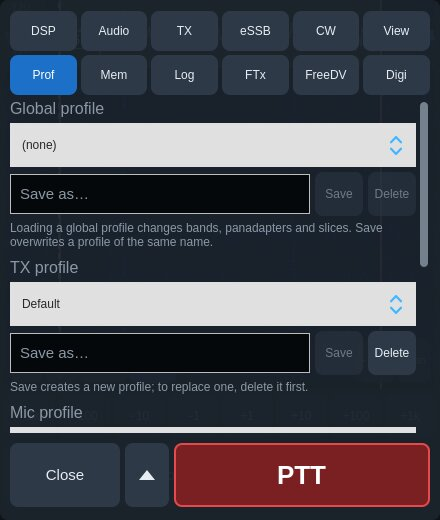
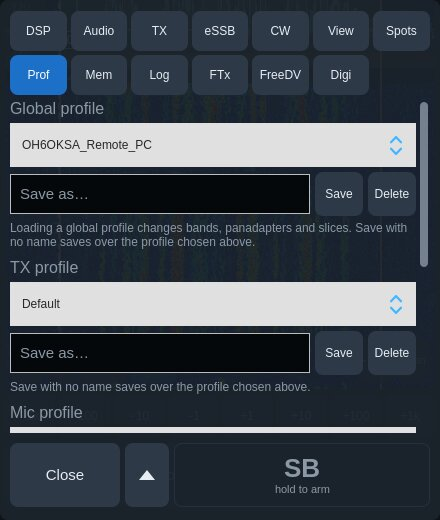
mobile: 162 Save with no name goes over the profile or App setup chosen above, after a question that names it (Larry Averbeck W9FLA)
Saving a small change into the profile in use needed its whole name
typed again, and for a TX or Mic profile the app refused a name that
exists ("delete it first"), after upstream's #2712.

The radio can save over: "profile transmit create" / "profile mic
create" on a name that exists writes the settings in use over that
profile and makes it current (tried on the FLEX-6600M, SmartSDR 4.3.16,
the radio's Auto Save on and off). So:
- Save with the name field empty takes the name chosen in the list above;
- a name that exists, typed or taken from the list, asks first: Save over
  "NAME"? with the kind of profile; No sends nothing;
- App setups' Save the same way through their own Replace question;
- saveProfile no longer refuses an existing TX or Mic name.
The Prof tab's hints say it. Nothing moves on the tab.

Tested on the FLEX with scratch profiles (the user's own left alone): a
TX profile with tune power 11 saved over after Yes, loaded away and back:
11; 12, Save, No: nothing sent, 11 came back. A Mic profile the same way
with the mic level (50 / 49). Global: the question names the profile in
use, No sends nothing (Yes not pressed: it would have written over the
user's profile; the command is the one Save sent before). An App setup
saved over after Yes, then deleted. The scratch profiles deleted, Default
in use, tune power 10, mic level 50, Auto Save on. In the build of the
whole next tree: the question opened from the Prof tab and No closed it.
[…]

diff --git a/mobile/qml/ProfileControls.qml b/mobile/qml/ProfileControls.qml
@@ -39,6 +39,7 @@ ColumnLayout {
             Layout.fillWidth: true
             TextField {
                 id: nameField
+                objectName: "profileName_" + section.type
                 Accessible.name: qsTr("New %1 profile name").arg(section.title)
                 Layout.fillWidth: true
                 placeholderText: qsTr("Save as…")
@@ -49,11 +50,26 @@ ColumnLayout {
             }
             AppButton {
                 id: saveButton
+                objectName: "profileSave_" + section.type
                 text: qsTr("Save")
-                enabled: nameField.text.trim().length > 0
+                // A typed name saves under it. With the field empty Save goes
+                // over the profile chosen above, after a question that names
+                // it (roadmap 162, Larry Averbeck W9FLA: a small change saved
+                // again needed the whole name typed again).
+                enabled: nameField.text.trim().length > 0 || picker.currentIndex >= 0
                 focusPolicy: Qt.NoFocus
                 onClicked: {
-                    Engine.saveProfile(section.type, nameField.text.trim())
+                    const typed = nameField.text.trim()
+                    const name = typed.length > 0 ? typed : picker.currentText
+                    if (section.names.indexOf(name) >= 0) {
+                        confirmSaveOver.type = section.type
+                        confirmSaveOver.kind = section.title
+                        confirmSaveOver.name = name
+                        confirmSaveOver.field = nameField
+                        confirmSaveOver.open()
+                        return
+                    }
+                    Engine.saveProfile(section.type, name)
                     nameField.text = ""
                 }
             }
@@ -83,14 +99,14 @@ ColumnLayout {
         title: qsTr("Global profile")
         names: Engine.globalProfiles
         active: Engine.activeGlobalProfile
-        hint: qsTr("Loading a global profile changes bands, panadapters and slices. Save overwrites a profile of the same name.")
+        hint: qsTr("Loading a global profile changes bands, panadapters and slices. Save with no name saves over the profile chosen above.")
     }
     ProfileSection {
         type: "transmit"
         title: qsTr("TX profile")
         names: Engine.txProfiles
         active: Engine.activeTxProfile
-        hint: qsTr("Save creates a new profile; to replace one, delete it first.")
+        hint: qsTr("Save with no name saves over the profile chosen above.")
     }
     ProfileSection {
         type: "mic"
@@ -155,10 +171,12 @@ ColumnLayout {
                 id: setupSave
                 objectName: "appSetupSave"
                 text: qsTr("Save")
-                enabled: setupName.text.trim().length > 0
+                // With no name: over the setup chosen above (roadmap 162).
+                enabled: setupName.text.trim().length > 0 || setupPicker.currentIndex >= 0
                 focusPolicy: Qt.NoFocus
                 onClicked: {
-                    const name = setupName.text.trim()
+                    const typed = setupName.text.trim()
+                    const name = typed.length > 0 ? typed : setupPicker.currentText
                     if (Engine.appSetups.indexOf(name) >= 0) {
                         confirmReplace.name = name
                         confirmReplace.open()
@@ -280,6 +298,35 @@ ColumnLayout {
         onAccepted: {
             setups.show(Engine.saveAppSetup(name), qsTr("Saved “%1”.").arg(name))
             setupName.text = ""
+        }
+    }
+
+    // Save over a profile that exists: the three kinds of the radio's
+    // profiles (roadmap 162). The radio writes the settings in use over it.
+    Dialog {
+        id: confirmSaveOver
+        objectName: "confirmSaveOver"
+        property string type
+        property string kind
+        property string name
+        property var field: null
+        parent: Overlay.overlay
+        anchors.centerIn: parent
+        width: Math.min(parent ? parent.width - 2 * Theme.spacing : 400, 420)
+        modal: true
+        title: qsTr("Save over “%1”?").arg(name)
+        standardButtons: Dialog.Yes | Dialog.No
+        contentItem: ColumnLayout {
+            Label {
+                Layout.fillWidth: true
+                text: qsTr("%1: the settings now in use replace the ones saved in it.").arg(confirmSaveOver.kind)
+                wrapMode: Text.Wrap
+                color: Theme.text
+            }
+        }
+        onAccepted: {
+            Engine.saveProfile(type, name)
+            if (field) field.text = ""
         }
     }
 

diff --git a/mobile/src/MobileEngine.cpp b/mobile/src/MobileEngine.cpp
@@ -7509,12 +7509,11 @@ void MobileEngine::saveProfile(const QString& type, const QString& name)
     if (type == QLatin1String("global")) {
         rm.sendCommand(QStringLiteral("profile global save ") + quotedProfileName(name));
     } else if (type == QLatin1String("transmit") || type == QLatin1String("mic")) {
-        const QStringList& existing = type == QLatin1String("mic") ? micProfiles() : txProfiles();
-        if (existing.contains(name.trimmed())) {
-            setLastError(tr("A %1 profile named “%2” exists. The radio cannot overwrite it: "
-                            "delete it first, then save again.").arg(type, name.trimmed()));
-            return;
-        }
+        // "create" on a name that exists writes the settings in use over
+        // that profile and makes it the current one (tried on a FLEX-6600M
+        // with SmartSDR 4.3.16, the radio's Auto Save on and off; roadmap
+        // 162): the app refused it with "delete it first", after upstream's
+        // #2712. The profile tab asks before a save over a name in use.
         rm.sendCommand(QStringLiteral("profile %1 create ").arg(type) + quotedProfileName(name));
     }
 }

diff --git a/mobile/ROADMAP.md b/mobile/ROADMAP.md
@@ -349,7 +349,7 @@ smallest number to the largest ("aina pienimmästä isoimpaan numeroon").
 159. **Radio:** FLEX firmware updates from OksaSDR (the user, 2026-11-23: "olisiko ohjelmisto päivitykset mahdollista tehdä jatkossa OksaSDR ... ettei tarttisi montaa sovellusta tai käyttistä, nythän olen aetherillä päivittänyt"). *Pre-analysis*: the shared core has it (FirmwareStager: FlexRadio's published SmartSDR version, the installer downloaded and MD5-checked, the .ssdr extracted from the MSI / Inno Setup in C++; FirmwareUploader: the file-upload socket), not yet in the mobile build. Radio Setup › Radio: the radio's version, the latest, Update; on the radio's network or a VPN only (not SmartLink), a download of hundreds of MB, the device kept awake on power until the radio is back. Test: a real update of the user's FLEX when FlexRadio publishes one, with the user's yes. Size: medium. Not chosen for a build.
 160. **Layout:** One proportional interface at every size (the user, 2026-11-23 evening, reviewing the Linux and iMac windows: "koko käyttöliittymä olisi noin suhteessa samannäköinen, vaikka näytön koot muuttuu, jolloin tuntuma säilyisi ihan sama millä laitteella käytät ... kun venyttää ikkunaa, niin kaikki skaalautuu suhteessa siihen ikkunan kokoon"; low phone landscapes with bar meters, perhaps one per side, instead of needles, the user free to add more, "mutta se olisi aina se optimaalisin näyttökoko"). *Pre-analysis*: today Theme.scale follows the short side only (0.85 on a phone, 1.0 on an 11" iPad, capped at 1.3), so on a 1920 or 2560 window text, touch targets and row heights stay near the iPad's while the rows stretch across the width (− and + 210 to 310 px wide); meters fall back to bars only under tightHeight (a window under 400 high). The idea: the 11" iPad in landscape (where the app began) as the reference, and every size keeping its proportions: a scale from both sides of the window without the 1.3 cap, each row's parts keeping their share of it (PTT about a third of its row, the small buttons about a twelfth), and on low screens the compact forms by default (bar meters, one per side), with the user's own choices kept. Review: every size beside the reference at the same scale, by proportion, not pixels. Size: large (Theme and every page; Classic changes at most sizes, approved by pictures first). *Measured 2026-11-24 on build 212 (the FLEX, receive only; the display = spectrum + waterfall, controls hidden, needle meters; the test tool's new `shot-plan: display` line)*: the display's height and its share of the window's height: 393 x 852 447 (52 %), 852 x 393 187 (48 %), 956 x 440 163 (37 %), 698 x 712 253 (36 %), 751 x 659 206 (31 %), 744 x 1133 668 (59 %), 1133 x 744 280 (38 %), 834 x 1194 713 (60 %), 1194 x 834 354 (42 %), 1024 x 1366 824 (60 %), 1366 x 1024 454 (44 %), 1470 x 890 372 (42 %), 1728 x 1050 473 (45 %), 1920 x 1015 452 (45 %), 2560 x 1375 739 (54 %). Findings: (1) proportional scaling of a 2560 x 1375 window (scale 1.65 instead of 1.30: the 11" iPad's look, rendered as 1552 x 834) makes text and buttons 27 % larger but takes the display from 54 % to 40 % of the height (739 to 544 px): the user's two principles pull apart on big windows, his to decide; up to MacBook sizes today's scale is already within 3-8 % of proportional. (2) The fixed limits jump: 956 x 440 gets less display (163) than 852 x 393 (187), being just over tightHeight's 400 (needles and the band row stay). (3) One bar meter a side gives the display 52-59 px more than needles on the tablet page (751 x 659: 206 to 258; 698 x 712: 253 to 306; 1133 x 744: 280 to 334; 1194 x 834: 354 to 413), two bars a side almost nothing (+7). (4) Pinned controls upright leave the display 188 px on an iPad mini and 206 px on an 11" (16-17 % of the window). (5) The Macros panel covers the whole display at 393 x 852, 852 x 393, 698 x 712 and 751 x 659; the Log drawer upright covers the waterfall (140). Proposed to the user (the page https://claude.ai/artifact/ApTmJ5t56HqRCdcNsG9YJm, pictures and tables; nothing coded): A the scale from both sides above the reference with no cap, and View › Size (Auto / Smaller / Larger), nothing changed below the reference (a finger does not scale: 44 pt); B a floor for the display (40 % of the height) reached by one order of giving way (needles to one bar a side, then the band row, then the step row; PTT never), in place of the 400 / 500 limits, with Meters: Auto / Needles / Bars and the user's own choice always winning; C panels that never cover the whole waterfall (Macros as a one-row strip on small screens, the upright drawer only as high as its tab needs, pinned controls upright shortened to the floor), sketches after the user picks the direction; D the keyboard as room taken away, shared out by B's order. Order B, A, C, D, each its own commit behind a setting at first. Waiting for the user's decisions. Not chosen for a build.
 161. **Usability:** Big buttons: the way out found (*in build 212 / Android beta 118*) (Kent Winrich, OksaSDR Users 2026-11-24, Android beta 117: "I seem to be stuck on the big buttons. When I go back to the menu it still says big buttons there and that doesn't do anything. I also try hitting exit and that doesn't do anything"; Jeff Schmeichel the same night: "It took me a bit to figure it out the first time as well"). *Pre-analysis*: Exit leaves on a hold of half the press-and-hold time, on purpose (a bump in the car must not close the view); a tap shows *hold to exit* beside it for 2.5 s in the dim text colour at 14 px, which neither saw; the ⋯ menu's *Big buttons* item and View › *Big buttons* set the mode on again, so they did nothing while it was on. Fix: both read *Exit Big buttons* while the mode is on and leave it; the hint in amber (not bold: the wider text pushed the mode button off a 393-wide phone's row). The hold stays. Tests in the render tool on the FLEX at phone and tablet sizes: the menu item and the View button in and out, Exit by tap (hint) and by hold. Size: small.
-162. **Radio:** Save over the profile in use without typing its name **In short:** Saving a profile again under its own name without typing the name: *Save* with the name field empty saves over the profile or App setup chosen above, after a question that names it. Drafted and tested on the FLEX, pictures shown 2026-11-25; nothing moves on the Prof tab. **From you:** yes or no to the draft. **Details:** (Larry Averbeck W9FLA, OksaSDR Users 2026-11-24: "Often, I find a small change that I would like to intentionally save using the same Profile name. (I do not like the Flex Auto Save capability.) As currently implemented, I have to retype that Profile name in order to re-save it. Would you consider adding a Re-Save option for the three Profiles and for the App setups"). *Pre-analysis* (ProfileControls.qml, MobileEngine::saveProfile): Save is enabled only with a typed name. A Global profile of that name is overwritten (`profile global save`); a TX or Mic profile is refused when the name exists ("delete it first"), as the app only sends `profile transmit|mic create` and upstream holds that the radio cannot overwrite those (its #2712; its own reference lists a `save` verb beside create: to try on the FLEX with a scratch profile whether `profile transmit save "name"` and `profile mic save "name"` replace, else delete and create in turn as the re-save, the profile made active again); an App setup of that name asks *Replace the setup?*. *Tested on the FLEX-6600M (SmartSDR 4.3.16), 2026-11-24, with a scratch profile ZZ_OKSA_TEST* (the user: "162 voi tallentaa päälle testeissä"; the app's own client through the render tool's new `radiocmd`; the tune power 10 → 11 and the mic level 50 → 49 as the marks, both put back): `profile transmit save "name"` is no command (50000016), but `profile transmit create "name"` and `profile mic create "name"` on a name that exists answer 0 and write the current settings over that profile, with the radio's Auto Save on and with it off (loaded back, the scratch profile held 11 and 49 while Default kept 10 and 50), and make it the current one. So the radio can save over a TX or a Mic profile, upstream's #2712 and our "delete it first" are wrong, and the re-save is the same one command for all three kinds (`profile global save`, `profile transmit create`, `profile mic create`). Seen on the way: `profile mic load` answers 50000078 and loads all the same; a plain TCP client cannot set the tune power (50000043), the app's client can. The radio as it was after the tests (15 TX and 25 Mic profiles, Default current, tune power 10, mic level 50, Auto Save on). Idea, to agree with the user first: Save with the name left empty saves over the profile or setup picked above, after a question that names it; no new control. Tests on the FLEX with scratch profiles only (create, change one setting, re-save, load another, load back, read the setting), each of the three kinds and an App setup; the user's own profiles untouched. Size: small. *Drafted and tested 2026-11-25 (the user's night order: on toward the next build from what was promised), kept out of the tree until the pictures are agreed*: Save is lit also with the name field empty when a profile or setup is chosen above; it then asks *Save over “name”?* ("TX profile: the settings now in use replace the ones saved in it.") and saves on Yes; a typed name that exists asks the same, a new name saves at once as before; an App setup goes to its *Replace the setup?* as before; the engine no longer refuses an existing TX or Mic name. The two hints say it ("Save with no name saves over the profile chosen above."); nothing moves on the tab (the user's phone size at 115 % text and an iPad's side drawer compared with build 214: the hints' text and the lit Save buttons are the only differences). On the FLEX, as the tester works (the radio's Auto Save off for the test, on again after): a scratch TX profile made on the tab; tune power 10 to 11 and loaded away and back without a save: 10 again (the change was lost, so the test can tell); 11 again, Save with no name, Yes: `profile transmit create` sent, loaded away and back: 11; 12, Save, No: nothing sent, loaded back: 11. A scratch Mic profile the same way with the mic level (50 / 49): 49 came back. Global: the question names the profile in use, No sends nothing; Yes was not pressed (it would have written over the user's own profile; the command is the one Save sent before). An App setup in the test's own settings: saved, the theme changed, Save with no name, *Replace the setup?*, Yes: saved again; deleted. The scratch profiles deleted, Default in use, tune power 10, mic level 50, Auto Save on. Not chosen for a build.
+162. **Radio:** Save over the profile in use without typing its name **In short:** Saving a profile again under its own name without typing the name: *Save* with the name field empty saves over the profile or App setup chosen above, after a question that names it. Tested on the FLEX with scratch profiles; nothing moves on the Prof tab. Chosen for the next build by the user on 2026-11-25. **From you:** nothing; a try on your own device when the build is out. **Details:** (Larry Averbeck W9FLA, OksaSDR Users 2026-11-24: "Often, I find a small change that I would like to intentionally save using the same Profile name. (I do not like the Flex Auto Save capability.) As currently implemented, I have to retype that Profile name in order to re-save it. Would you consider adding a Re-Save option for the three Profiles and for the App setups"). *Pre-analysis* (ProfileControls.qml, MobileEngine::saveProfile): Save is enabled only with a typed name. A Global profile of that name is overwritten (`profile global save`); a TX or Mic profile is refused when the name exists ("delete it first"), as the app only sends `profile transmit|mic create` and upstream holds that the radio cannot overwrite those (its #2712; its own reference lists a `save` verb beside create: to try on the FLEX with a scratch profile whether `profile transmit save "name"` and `profile mic save "name"` replace, else delete and create in turn as the re-save, the profile made active again); an App setup of that name asks *Replace the setup?*. *Tested on the FLEX-6600M (SmartSDR 4.3.16), 2026-11-24, with a scratch profile ZZ_OKSA_TEST* (the user: "162 voi tallentaa päälle testeissä"; the app's own client through the render tool's new `radiocmd`; the tune power 10 → 11 and the mic level 50 → 49 as the marks, both put back): `profile transmit save "name"` is no command (50000016), but `profile transmit create "name"` and `profile mic create "name"` on a name that exists answer 0 and write the current settings over that profile, with the radio's Auto Save on and with it off (loaded back, the scratch profile held 11 and 49 while Default kept 10 and 50), and make it the current one. So the radio can save over a TX or a Mic profile, upstream's #2712 and our "delete it first" are wrong, and the re-save is the same one command for all three kinds (`profile global save`, `profile transmit create`, `profile mic create`). Seen on the way: `profile mic load` answers 50000078 and loads all the same; a plain TCP client cannot set the tune power (50000043), the app's client can. The radio as it was after the tests (15 TX and 25 Mic profiles, Default current, tune power 10, mic level 50, Auto Save on). Idea, to agree with the user first: Save with the name left empty saves over the profile or setup picked above, after a question that names it; no new control. Tests on the FLEX with scratch profiles only (create, change one setting, re-save, load another, load back, read the setting), each of the three kinds and an App setup; the user's own profiles untouched. Size: small. *Drafted and tested 2026-11-25 (the user's night order: on toward the next build from what was promised), kept out of the tree until the pictures are agreed*: Save is lit also with the name field empty when a profile or setup is chosen above; it then asks *Save over “name”?* ("TX profile: the settings now in use replace the ones saved in it.") and saves on Yes; a typed name that exists asks the same, a new name saves at once as before; an App setup goes to its *Replace the setup?* as before; the engine no longer refuses an existing TX or Mic name. The two hints say it ("Save with no name saves over the profile chosen above."); nothing moves on the tab (the user's phone size at 115 % text and an iPad's side drawer compared with build 214: the hints' text and the lit Save buttons are the only differences). On the FLEX, as the tester works (the radio's Auto Save off for the test, on again after): a scratch TX profile made on the tab; tune power 10 to 11 and loaded away and back without a save: 10 again (the change was lost, so the test can tell); 11 again, Save with no name, Yes: `profile transmit create` sent, loaded away and back: 11; 12, Save, No: nothing sent, loaded back: 11. A scratch Mic profile the same way with the mic level (50 / 49): 49 came back. Global: the question names the profile in use, No sends nothing; Yes was not pressed (it would have written over the user's own profile; the command is the one Save sent before). An App setup in the test's own settings: saved, the theme changed, Save with no name, *Replace the setup?*, Yes: saved again; deleted. The scratch profiles deleted, Default in use, tune power 10, mic level 50, Auto Save on. Chosen for the next build (the user, 2026-11-25: "162 re-save ok").
 163. **Display:** A background picture for the panadapter and a colour for the trace (Larry Averbeck W9FLA, the same comment: "the ability to select and add different wall paper for the Pan Adapter display as well as the color of the trace. For example, my Flex and Aether displays as well as all my PC desktops use light shades of blue. My traces vary from white to gold to red"). *Pre-analysis*: neither can be chosen today: the trace colour and the display's background are constants in SpectrumItem.cpp (kTraceColor with the fill a darker shade of it, kBackground), the same in both themes; the desktop's own widget has both (setBackgroundImage, setFftFillColor), not shared code. The colour: a property of SpectrumItem set from a short palette (and the fill from it) in View, saved in the app's settings and App setups; the picture: drawn under the grid and trace, dimmed so the trace and texts stay readable in both themes, chosen with the system's file or photo picker (per platform: the Android picker of 129, a FileDialog elsewhere), copied into the app's data, kept out of an exported App setup or carried as a file. To agree with the user first, with pictures: where the two settings live and what the 3D display does with a picture. Size: small (colour) and medium (picture). Not chosen for a build.
 164. **Connect:** A radio's whole name on its card on a phone (*(a) in build 214 / Android beta 119*; (b) not chosen) **In short:** A radio's name was cut on a narrow phone's Connect page; since build 214 the name has a row of its own (part a). Part (b), still open, keeps the *Connect ›* chip's text at its size when the phone's text size is large, so the card's last line has more room (at 135 % *Available* is cut today). **From you:** (b) yes or no (pictures shown 2026-11-25). **Details:** (Ian Gilchrist VK1HF, mail 2026-11-24 with a screenshot of the Connect page on Android beta 118: the favourites read "★ OT…" and "★ IK…", the lines under them "VK1HF (I…": "Just too big mate, is that how it's supposed to look?"). *Pre-analysis 2026-11-24*: reproduced with the render tool (344x880, OKSASDR_TEXT_SCALE 1.0 / 1.15 / 1.3 / 1.35, made-up saved radios). A card's name (Theme.px(20)) shares its row with the "Connect ›" chip (Theme.px(16) and 2 × spacing) and the ☆ / ✕ / ✎ button beside the card: at 344 pt it has some 108 px at 100 % ("★ OTWA…", "Konnev…") and 84 px at 135 % ("★ O…"); at 393 pt and 100 % a nickname with its model is cut too ("Konnevesi —…"), and on an 11" iPad at 135 % "… FLEX-660…", as the chip grows with the text. The earlier fix for the same tester (the title "OksaSDR" and the card's height at a large text size) left the name's width as it was. *Proposal, drafted and rendered, not committed* (`git stash`: "164 draft"; the patch also in the session's scratchpad): (a) one rule for the page: when the narrowest card (a SmartLink radio's, inside the box with ☆ beside it) leaves a name less than 12 em beside the chip (some 23 characters), every card gives the name its first row, on two lines when it needs them, and the chip sits on the second row beside the account, state or address: each phone upright (a window under some 478 pt at 100 %), a narrow Split View pane, a wider window only at a large text size; a card with a one-line name keeps its height; (b) the chip's text keeps its size at a large system text size, as the page's other buttons do (Theme: the buttons' own text keeps its size), so nothing changes at 100 %. Rendered before and after at 344, 360, 393, 430, 507, 834 and 1194 pt wide at 100 % and 135 %: 834x1194 and 1194x834 at 100 % are pixel for pixel as before, 507 has the same layout (its saved cards' text now on whole pixels), no QML warnings. *Chosen by the user 2026-11-25* ("164 a ja mukaan tähän buildiin", after the pictures were shown again): (a) as drafted, the whole page's rule. (b) was asked beside it and not answered, so it is out: the chip's text grows with the text size as before (ConnectPage's ConnectChip says so). *Done in the dev build (2026-11-25)* and rendered against the build before it at seventeen sizes and text sizes (344 to 1366 pt wide, 100 to 135 %): no radio's name is cut at any of them (before: the SmartLink radio's and a saved radio's at every phone size, and at 834 and 1366 pt with 135 %); 698 x 751, 751 x 698, 834 x 1194 and 1366 x 1024 at 100 % are pixel for pixel as before; no QML warnings. The page's other states at the user's phone (344 x 764, 115 %), the tester's (360 x 780, 130 %), an iPhone (393 x 852) and an iPad (834 x 1194): the light theme, the demo radio's card, a connect that fails ("Why? Check the connection"), a radio announced on the network (discovery-announce.py), the account shown by its address: the names whole in each. Not rendered: several SmartLink accounts with favourites (they need a kept sign-in each) and a SmartLink radio in use or out of reach. Still cut on a narrow page, as before and not part of (a): the account's name beside + Account and Sign out, and a card's second line beside the chip ("IKARA — AU-510" has 104 of 131 px at 344 pt and 115 %, an address with its firmware 158 of 180): to 168. The tester's log (2026-11-24, a Samsung SM-S948B on Android 17): the window 360 x 780 dp and the system text size 1.3; rendered with those (360x780, OKSASDR_TEXT_SCALE 1.3) the cards read "★ OT…" as in the screenshot, and with the draft every name is whole. The user's own phone is the same case (its developer-link log, 2026-11-24: 343 x 764, text 115 %). By `cuttext` at 393 x 852 and 100 %: the SmartLink card's name has 142 of the 241 px it needs, a saved radio's 162 of 229. Size: small.
 165. **Connect:** An iPhone or iPad finds the radio on its own network (the user, 2026-11-24 at the cabin, after verifying 29 on Android: "lähiverkkohaku pitäisi silloin toimia eikä kukaan ole valittanut testaajista ettei toimisi"). *Pre-analysis 2026-11-24*: it cannot work in today's builds, and nobody complains because the instructions send iOS testers to the IP address or SmartLink (TESTING.md; the manual's "connect by IP address for now"). A FlexRadio announces itself with UDP broadcasts to port 4992 and discovery only listens for them (RadioDiscovery binds AnyIPv4:4992). Apple's TN3179 (Understanding local network privacy, Multicast operations): on iOS "to send or receive multicast or broadcast traffic, sign your app with the com.apple.developer.networking.multicast entitlement", and receiving an incoming UDP broadcast is on its list; enforced from iOS 16 (Apple's Local Network Privacy FAQ). The iOS build is signed automatically with no entitlements file (mobile/CMakeLists.txt sets no CODE_SIGN_ENTITLEMENTS, mobile/ios has none), so the broadcasts never reach the app and "Searching this network…" stays. The Local Network permission (NSLocalNetworkUsageDescription in Info.plist) is another thing and is in place. What it takes: (1) the account holder asks Apple for the Multicast Networking entitlement (a form on developer.apple.com: what the app does with it, here finding a FlexRadio by its discovery broadcasts; Apple answers by mail); (2) the capability on the App ID, an entitlements file with the key in mobile/ios and CODE_SIGN_ENTITLEMENTS in mobile/CMakeLists.txt (the CI signs automatically with -allowProvisioningUpdates, which makes the profile); (3) a test on an iPhone or iPad at a radio's own network: the developer's radio is at the cabin, so the next visit there or a tester at home; (4) the manual, the README, mobile/README.md and TESTING.md lose "connect by IP address for now". The request was sent by the user on 2026-11-24 in the evening ("Multicast lomake lähetetty"; in the morning still "165 ei ole haettu"): Apple's answer comes by mail and is watched for. The text for Apple's form (developer.apple.com/contact/request/networking-multicast: the app, why it must receive the radio's broadcasts, that it only listens) was drafted for the user the same day. It says the app sends no broadcasts, which holds from 167 on, so 167 goes into the build that carries the entitlement at the latest. Not known: whether the iPad app on a Mac is held to it (macOS itself does not require the entitlement). Size: small in code; the wait is Apple's. Not chosen for a build.

diff --git a/docs/mobile/MANUAL.md b/docs/mobile/MANUAL.md
@@ -1718,9 +1718,16 @@ or a 4O3A Power Genius XL or Tuner Genius XL connected to the radio, an
     digital transmissions and RBN's skimmers' spots of your CQ (CW, RTTY,
     PSK). Turned on in Setup › Spots.
 - **Prof** (profiles) — the radio's global, TX and mic profiles: load, save,
-  delete, as in SmartSDR. Under them, **App setups** (thanks Larry
+  delete, as in SmartSDR. **Save** with a name typed in *Save as…* saves
+  under that name. With the field left empty it saves over the profile
+  chosen in the list above, after asking *Save over “…”?* with its name,
+  so a small change is saved again without typing the name (since build
+  215 / Android beta 120; asked by Larry Averbeck W9FLA). A typed name
+  that exists asks the same. Under them, **App setups** (thanks Larry
   Averbeck W9FLA) do the same for this app's own settings: type a name in
-  *Save as…* and tap **Save** (an existing name asks before replacing it);
+  *Save as…* and tap **Save** (an existing name asks before replacing it;
+  with no name typed, **Save** goes over the setup chosen in the list,
+  asking first);
   pick a setup in the list to switch to it at once. A setup holds the
   display, meters, panels, DSP, audio and the TX chain, macros and CW
   memories, the logbooks, the devices and the radio list, with their
